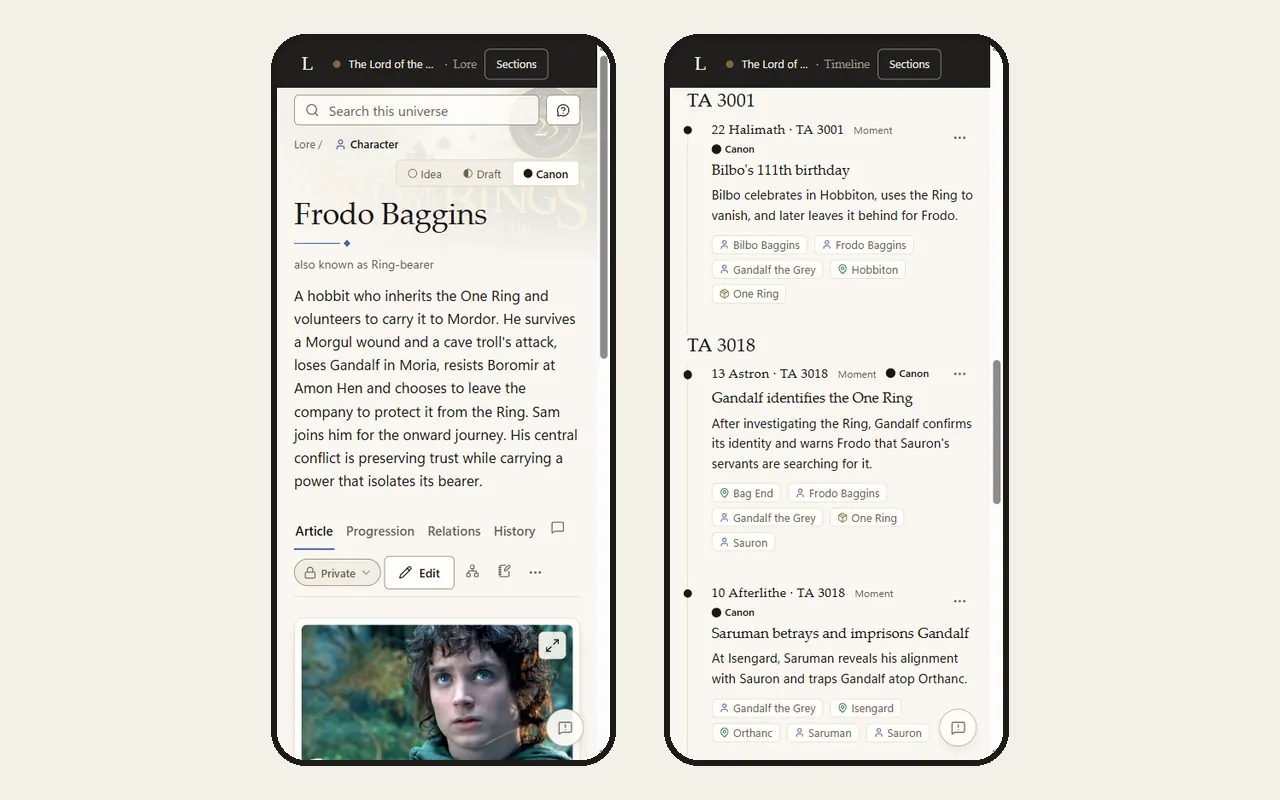
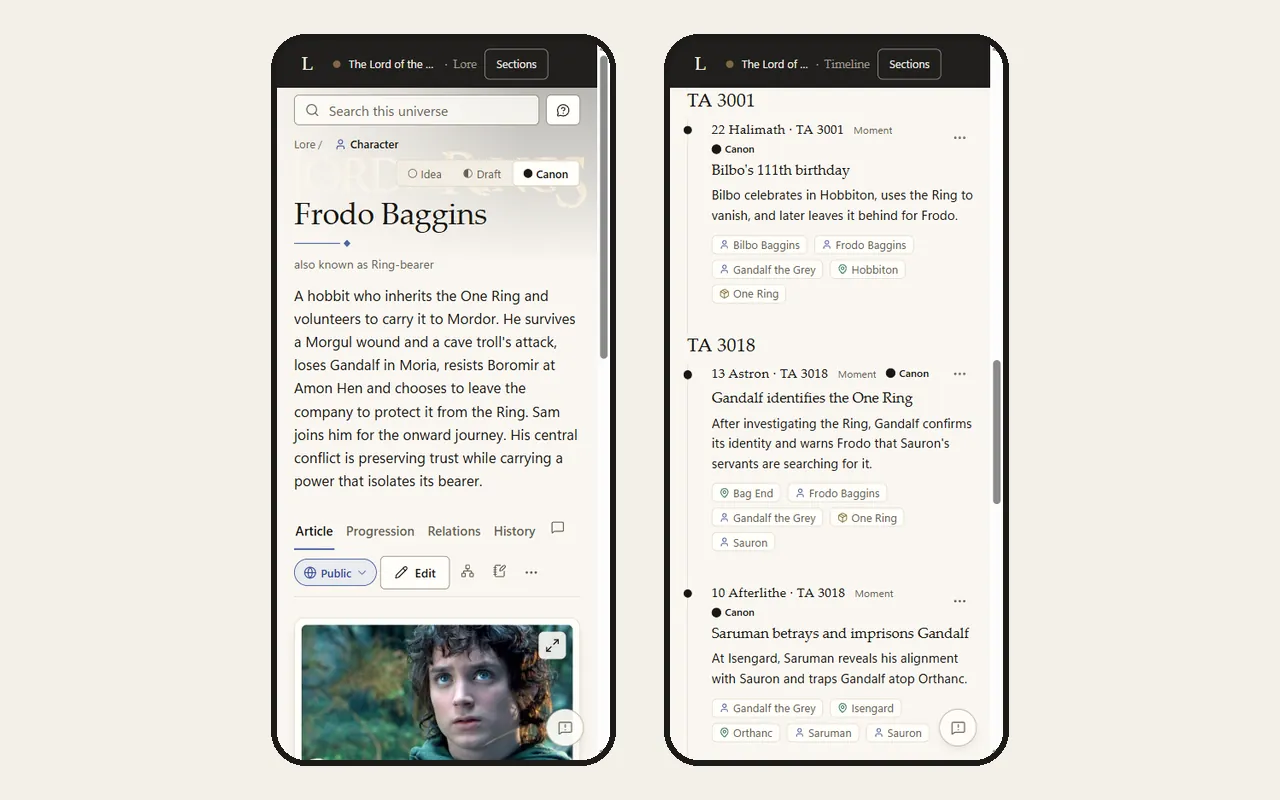
[FEAT] Demo page: reshoot LOTR screenshots after the owner's updates
The new universe cover, Public visibility on entries, the Middle Earth map scale
and the "Based on works by JRR Tolkien" credit on the portal and Explore card.
The curator line naming the owner is left out. Image version bumped to
20261101c so returning visitors get the new pictures.

Changed region(s): [[0.2188, 0.6875, 0.4062, 0.75], [0.3125, 0.1562, 0.4062, 0.2188], [0.3125, 0.0938, 0.4062, 0.125]]

diff --git a/site/alpha/public/index.html b/site/alpha/public/index.html
@@ -87,7 +87,7 @@
         <article class="index__page" id="lore-entries" aria-labelledby="lore-entries-title">
           <h3 id="lore-entries-title">Lore entries</h3>
           <p class="index__hook">A page for every character, place and item. Everything is generic and customizable.</p>
-          <img class="index__shot" src="/assets/shots/lore.webp?v=20261101" alt="Aragorn's lore page: his other name, a summary, his portrait and the Idea, Draft and Canon switch." width="1280" height="800" loading="lazy" decoding="async" />
+          <img class="index__shot" src="/assets/shots/lore.webp?v=20261101c" alt="Aragorn's lore page: his other name, a summary, his portrait and the Idea, Draft and Canon switch." width="1280" height="800" loading="lazy" decoding="async" />
           <p>Every character, place, faction or object gets a page: a picture cropped the way you want, an article, the other names it goes by, tags, and the details its type asks for. You choose the fields you want to display on them.</p>
           <p>Make many entries at once with a Mass Create from a list of names, or create one on the spot while you link to it.</p>
           <p class="index__why">Look up the innkeeper from chapter two without scrolling through a hundred pages.</p>
@@ -95,7 +95,7 @@
         <article class="index__page" id="your-own-types" aria-labelledby="your-own-types-title">
           <h3 id="your-own-types-title">Your own types</h3>
           <p class="index__hook">Your world's structure, designed by you.</p>
-          <img class="index__shot" src="/assets/shots/types.webp?v=20261101" alt="The list of lore types, with Realm nested under Location and both in the Places group." width="1280" height="800" loading="lazy" decoding="async" />
+          <img class="index__shot" src="/assets/shots/types.webp?v=20261101c" alt="The list of lore types, with Realm nested under Location and both in the Places group." width="1280" height="800" loading="lazy" decoding="async" />
           <p>A new world starts empty. You decide what kinds of things it has and what each records: a character might have a birth year and a house, a ship a crew and a captain.</p>
           <p>Types can sit inside other types, fields can be grouped in sections, choice fields hold your own lists, and groups such as Places collect several types. Or start from a ready-made set and change it. You can even create a field that uses a lore entity as a mandatory field.</p>
           <p class="index__why">The structure fits your world, instead of your world bending to someone else's template.</p>
@@ -103,7 +103,7 @@
         <article class="index__page" id="canon-history-and-private-notes" aria-labelledby="canon-history-and-private-notes-title">
           <h3 id="canon-history-and-private-notes-title">Canon, history and private notes</h3>
           <p class="index__hook">Nothing you write is lost.</p>
-          <img class="index__shot" src="/assets/shots/history.webp?v=20261101" alt="Aragorn's history: earlier versions of the entry, ready to view and restore." width="1280" height="800" loading="lazy" decoding="async" />
+          <img class="index__shot" src="/assets/shots/history.webp?v=20261101c" alt="Aragorn's history: earlier versions of the entry, ready to view and restore." width="1280" height="800" loading="lazy" decoding="async" />
           <p>Mark each entry as an Idea, a Draft or Canon. Every save is kept as a version you can read and bring back, and anything you remove waits in the Trash before it is gone for good.</p>
           <p>Each entry can carry a private note only you can see, never shown to collaborators, readers or an AI.</p>
           <p class="index__why">Try a big rewrite without worrying. The old version is one click away.</p>
@@ -111,21 +111,21 @@
         <article class="index__page" id="relations" aria-labelledby="relations-title">
           <h3 id="relations-title">Relations</h3>
           <p class="index__hook">How things connect, and for how long.</p>
-          <img class="index__shot" src="/assets/shots/relations.webp?v=20261101" alt="The One Ring's bearers, each relation with the dates it held." width="1280" height="800" loading="lazy" decoding="async" />
+          <img class="index__shot" src="/assets/shots/relations.webp?v=20261101c" alt="The One Ring's bearers, each relation with the dates it held." width="1280" height="800" loading="lazy" decoding="async" />
           <p>Invent your own kinds of relation, such as rules, sworn to or owes a debt to, read correctly from both ends. A relation can hold for a stretch of time, or for one stage of an entry's life, and leaving a faction and coming back is the same relation with two periods.</p>
           <p class="index__why">Your world's web of loyalties and feuds, kept straight.</p>
         </article>
         <article class="index__page" id="family-trees" aria-labelledby="family-trees-title">
           <h3 id="family-trees-title">Family trees</h3>
           <p class="index__hook">Record who's related. The tree draws itself.</p>
-          <img class="index__shot" src="/assets/shots/family-tree.webp?v=20261101b" alt="Eowyn's family tree over three generations: Thengel, her parents and her uncle Theoden, then Eomer, Eowyn and Faramir." width="1280" height="800" loading="lazy" decoding="async" />
+          <img class="index__shot" src="/assets/shots/family-tree.webp?v=20261101c" alt="Eowyn's family tree over three generations: Thengel, her parents and her uncle Theoden, then Eomer, Eowyn and Faramir." width="1280" height="800" loading="lazy" decoding="async" />
           <p>Record parents and partners, and the tree works out the rest: siblings, aunts and uncles, cousins, nieces and nephews, across as many generations as you have. Other family you record, such as a guardian, shows as a labelled line.</p>
           <p class="index__why">Big families get confusing fast. The tree shows it at a glance and stays right as you change things.</p>
         </article>
         <article class="index__page" id="progression" aria-labelledby="progression-title">
           <h3 id="progression-title">Progression</h3>
           <p class="index__hook">How characters change over the story.</p>
-          <img class="index__shot" src="/assets/shots/progression.webp?v=20261101" alt="Gandalf's stages, The Grey Pilgrim and The White Rider, and his forms." width="1280" height="800" loading="lazy" decoding="async" />
+          <img class="index__shot" src="/assets/shots/progression.webp?v=20261101c" alt="Gandalf's stages, The Grey Pilgrim and The White Rider, and his forms." width="1280" height="800" loading="lazy" decoding="async" />
           <p>Give an entry stages, a character across arcs or a city across the years, each with its own picture and its own details. Add the forms it can take, what it can do, and how it looks, each with pictures.</p>
           <p class="index__why">You always know what a character was like at any point in the story.</p>
         </article>
@@ -138,14 +138,14 @@
         <article class="index__page" id="maps" aria-labelledby="maps-title">
           <h3 id="maps-title">Maps</h3>
           <p class="index__hook">Your maps, with your lore pinned on them.</p>
-          <img class="index__shot" src="/assets/shots/maps.webp?v=20261101" alt="An uploaded map of Middle Earth, ready for pins and a scale." width="1280" height="800" loading="lazy" decoding="async" />
+          <img class="index__shot" src="/assets/shots/maps.webp?v=20261101c" alt="An uploaded map of Middle Earth with its scale set, ready for pins." width="1280" height="800" loading="lazy" decoding="async" />
           <p>Upload your own maps and pin your lore onto them. Each pin opens its page, and a pinned page shows where it is. Give a map a scale in your own unit and measure distances on it. Draw interactive maps are being considered for a second phase.</p>
           <p class="index__why">You can see where things are and how far apart, without holding it all in your head.</p>
         </article>
         <article class="index__page" id="world-rules-and-canon-checks" aria-labelledby="world-rules-and-canon-checks-title">
           <h3 id="world-rules-and-canon-checks-title">World rules and canon checks</h3>
           <p class="index__hook">How your world works, checked for you.</p>
-          <img class="index__shot" src="/assets/shots/rules.webp?v=20261101" alt="World rules, the first one checked against the timeline." width="1280" height="800" loading="lazy" decoding="async" />
+          <img class="index__shot" src="/assets/shots/rules.webp?v=20261101c" alt="World rules, the first one checked against the timeline." width="1280" height="800" loading="lazy" decoding="async" />
           <p>Write down how your world works, in your own words. A rule can carry a simple check, such as no one bound more than three times, that runs against your timeline.</p>
           <p>LorEvolve also lists where your canon contradicts itself, such as a parent younger than their child. It never changes your lore; you fix it or dismiss it.</p>
           <p>The goal is to detect plot holes you might have in the universe which is still a work in progress.</p>
@@ -154,14 +154,14 @@
         <article class="index__page" id="your-own-calendar" aria-labelledby="your-own-calendar-title">
           <h3 id="your-own-calendar-title">Your own calendar</h3>
           <p class="index__hook">Your world's own eras, months and dates.</p>
-          <img class="index__shot" src="/assets/shots/chronology.webp?v=20261101" alt="A custom calendar with the Shire Reckoning months, Afteryule to Afterlithe and on." width="1280" height="800" loading="lazy" decoding="async" />
+          <img class="index__shot" src="/assets/shots/chronology.webp?v=20261101c" alt="A custom calendar with the Shire Reckoning months, Afteryule to Afterlithe and on." width="1280" height="800" loading="lazy" decoding="async" />
           <p>Named eras that count up or down, your own months with their own lengths, and dates written the way they would be inside the story.</p>
           <p class="index__why">Dates read like your world, not squeezed into ours.</p>
         </article>
         <article class="index__page" id="stories-and-plot" aria-labelledby="stories-and-plot-title">
           <h3 id="stories-and-plot-title">Stories and plot</h3>
           <p class="index__hook">Write the story inside the world.</p>
-          <img class="index__shot" src="/assets/shots/stories.webp?v=20261101" alt="The plot of The Fellowship of the Ring: an arc and its beats, linked to scenes and lore." width="1280" height="800" loading="lazy" decoding="async" />
+          <img class="index__shot" src="/assets/shots/stories.webp?v=20261101c" alt="The plot of The Fellowship of the Ring: an arc and its beats, linked to scenes and lore." width="1280" height="800" loading="lazy" decoding="async" />
           <p>Write in chapters and scenes, each with its own point of view and date. Type @ to mention a character or place and it becomes a link. Switch between writing and reading, and every saved version of a scene is kept.</p>
           <p>Plan plot arcs and their beats, linked to the scenes they play out in and the lore they concern.</p>
           <p>Not a writer at all? No problem, just skip the manuscripts.</p>
@@ -170,7 +170,7 @@
         <article class="index__page" id="timeline" aria-labelledby="timeline-title">
           <h3 id="timeline-title">Timeline</h3>
           <p class="index__hook">Everything in order, in your world's own dates.</p>
-          <img class="index__shot" src="/assets/shots/timeline.webp?v=20261101" alt="The timeline in Shire Reckoning dates, from Bilbo's 111th birthday on." width="1280" height="800" loading="lazy" decoding="async" />
+          <img class="index__shot" src="/assets/shots/timeline.webp?v=20261101c" alt="The timeline in Shire Reckoning dates, from Bilbo's 111th birthday on." width="1280" height="800" loading="lazy" decoding="async" />
           <p>Add moments with who took part and which stories they matter to. Scenes set at a date appear on the same line by themselves.</p>
           <p class="index__why">You can see what happened when, across every story set in the world.</p>
         </article>
@@ -183,21 +183,21 @@
         <article class="index__page" id="ideas" aria-labelledby="ideas-title">
           <h3 id="ideas-title">Ideas</h3>
           <p class="index__hook">Room for what isn't settled yet.</p>
-          <img class="index__shot" src="/assets/shots/ideas.webp?v=20261101" alt="Ideas for the universe, each with the entries it refers to." width="1280" height="800" loading="lazy" decoding="async" />
+          <img class="index__shot" src="/assets/shots/ideas.webp?v=20261101c" alt="Ideas for the universe, each with the entries it refers to." width="1280" height="800" loading="lazy" decoding="async" />
           <p>Jot an idea down as a line of text, or spread a few out on a board and join the ones that belong together. An idea can sit in one universe or stay unattached until you know where it goes, and it can point at the entries, scenes or plot beats it is about.</p>
           <p class="index__why">Half-formed ideas get a home without cluttering the world you've already settled.</p>
         </article>
         <article class="index__page" id="collaboration" aria-labelledby="collaboration-title">
           <h3 id="collaboration-title">Collaboration</h3>
           <p class="index__hook">Invite the people you trust.</p>
-          <img class="index__shot" src="/assets/shots/collaboration.webp?v=20261101" alt="The invite form for a universe, with a role for each person." width="1280" height="800" loading="lazy" decoding="async" />
+          <img class="index__shot" src="/assets/shots/collaboration.webp?v=20261101c" alt="The invite form for a universe, with a role for each person." width="1280" height="800" loading="lazy" decoding="async" />
           <p>Invite people into a universe as Editor, Reviewer or Viewer. They see it, you keep it.</p>
           <p class="index__why">Co-writers and test readers in the same place as the work.</p>
         </article>
         <article class="index__page" id="ai" aria-labelledby="ai-title">
           <h3 id="ai-title">AI</h3>
           <p class="index__hook">Off by default. Claude, ChatGPT and others, on your terms.</p>
-          <img class="index__shot" src="/assets/shots/ai.webp?v=20261101" alt="AI changes already decided, each one approved by the author." width="1280" height="800" loading="lazy" decoding="async" />
+          <img class="index__shot" src="/assets/shots/ai.webp?v=20261101c" alt="AI changes already decided, each one approved by the author." width="1280" height="800" loading="lazy" decoding="async" />
           <p>Switch on AI help for a universe and you get a chat assistant inside LorEvolve. As a Reader it searches and answers from your lore; as a Creator it can also propose changes, which wait for your approval.</p>
           <p>It also provides a MCP, an open standard that lets an AI app use another app's data. Connect Claude or ChatGPT to one universe, so a writing assistant or a game engine works from the story you created instead of guessing, or bring a whole world in quickly, as proposals you review one by one.</p>
           <p class="index__why">Disconnect at any time. Leave AI help off and none of this exists in your world.</p>
@@ -205,28 +205,28 @@
         <article class="index__page" id="backup-export-and-search" aria-labelledby="backup-export-and-search-title">
           <h3 id="backup-export-and-search-title">Backup, export and search</h3>
           <p class="index__hook">Take a copy whenever you like.</p>
-          <img class="index__shot" src="/assets/shots/export.webp?v=20261101" alt="The backup and readable export downloads, and restoring a backup." width="1280" height="800" loading="lazy" decoding="async" />
+          <img class="index__shot" src="/assets/shots/export.webp?v=20261101c" alt="The backup and readable export downloads, and restoring a backup." width="1280" height="800" loading="lazy" decoding="async" />
           <p>Download a full backup that LorEvolve can restore, or a readable export of Markdown pages with every original picture. Search across a universe's lore, stories and articles.</p>
           <p class="index__why">If you ever leave, your world comes with you, in a form you can still read.</p>
         </article>
         <article class="index__page" id="an-app-on-every-screen" aria-labelledby="an-app-on-every-screen-title">
           <h3 id="an-app-on-every-screen-title">An app on every screen</h3>
           <p class="index__hook">On your phone, tablet or computer.</p>
-          <img class="index__shot" src="/assets/shots/install.webp?v=20261101" alt="LorEvolve on two phones: Frodo's lore page and the timeline." width="1280" height="800" loading="lazy" decoding="async" />
+          <img class="index__shot" src="/assets/shots/install.webp?v=20261101c" alt="LorEvolve on two phones: Frodo's lore page and the timeline." width="1280" height="800" loading="lazy" decoding="async" />
           <p>Install LorEvolve as an app on your phone or computer. It needs a connection; there is no offline mode. A Feedback button on every page sends a bug or a wish straight to me.</p>
           <p class="index__why">Check a name on your phone in the middle of a game session.</p>
         </article>
         <article class="index__page" id="publishing" aria-labelledby="publishing-title">
           <h3 id="publishing-title">Publishing</h3>
           <p class="index__hook">Share the world, keep your notes.</p>
-          <img class="index__shot" src="/assets/shots/publishing.webp?v=20261101" alt="The Lord of the Rings as readers see it on the public portal." width="1280" height="800" loading="lazy" decoding="async" />
+          <img class="index__shot" src="/assets/shots/publishing.webp?v=20261101c" alt="The Lord of the Rings as readers see it on the public portal." width="1280" height="800" loading="lazy" decoding="async" />
           <p>Publish a universe piece by piece: you choose what is public, down to each entry, story and map. Everything else stays private.</p>
           <p class="index__why">Share your world with readers or players without handing over your notes.</p>
         </article>
         <article class="index__page" id="explore-and-author-pages" aria-labelledby="explore-and-author-pages-title">
           <h3 id="explore-and-author-pages-title">Explore and author pages</h3>
           <p class="index__hook">Read other people's worlds.</p>
-          <img class="index__shot" src="/assets/shots/explore.webp?v=20261101" alt="The Explore page listing published worlds." width="1280" height="800" loading="lazy" decoding="async" />
+          <img class="index__shot" src="/assets/shots/explore.webp?v=20261101c" alt="The Explore page listing published worlds." width="1280" height="800" loading="lazy" decoding="async" />
           <p>Browse other authors' published universes, each author with a public page and a profile picture. Upvotes and downvotes are being considered.</p>
           <p class="index__why">Find readers, and find worlds worth reading.</p>
         </article>
